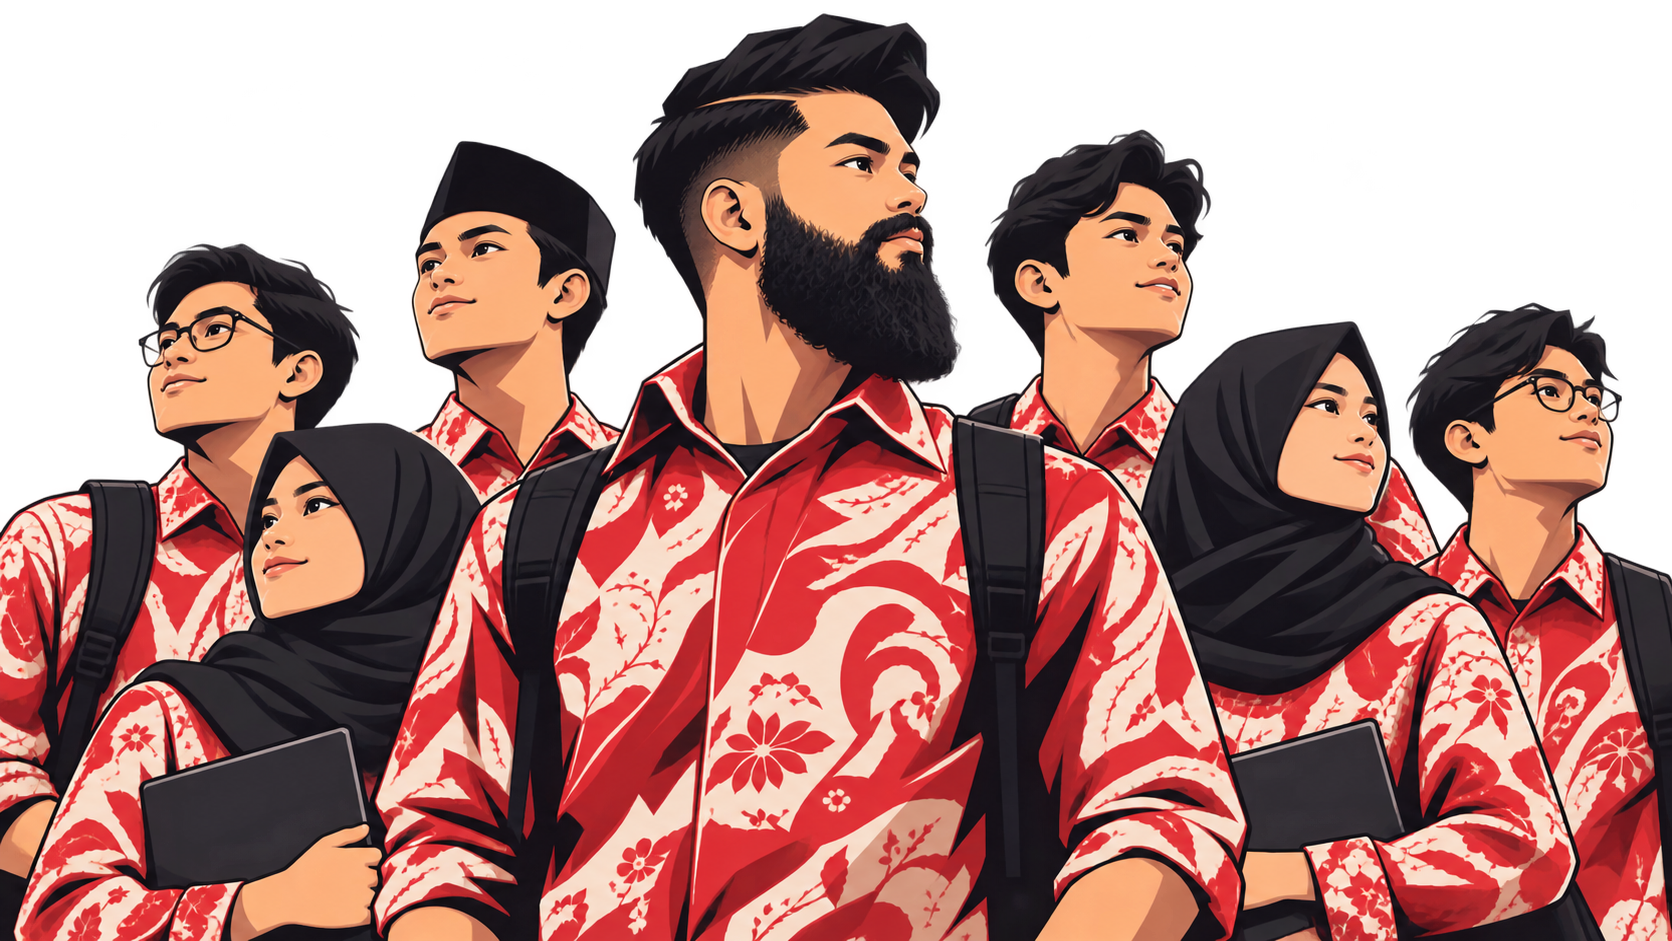
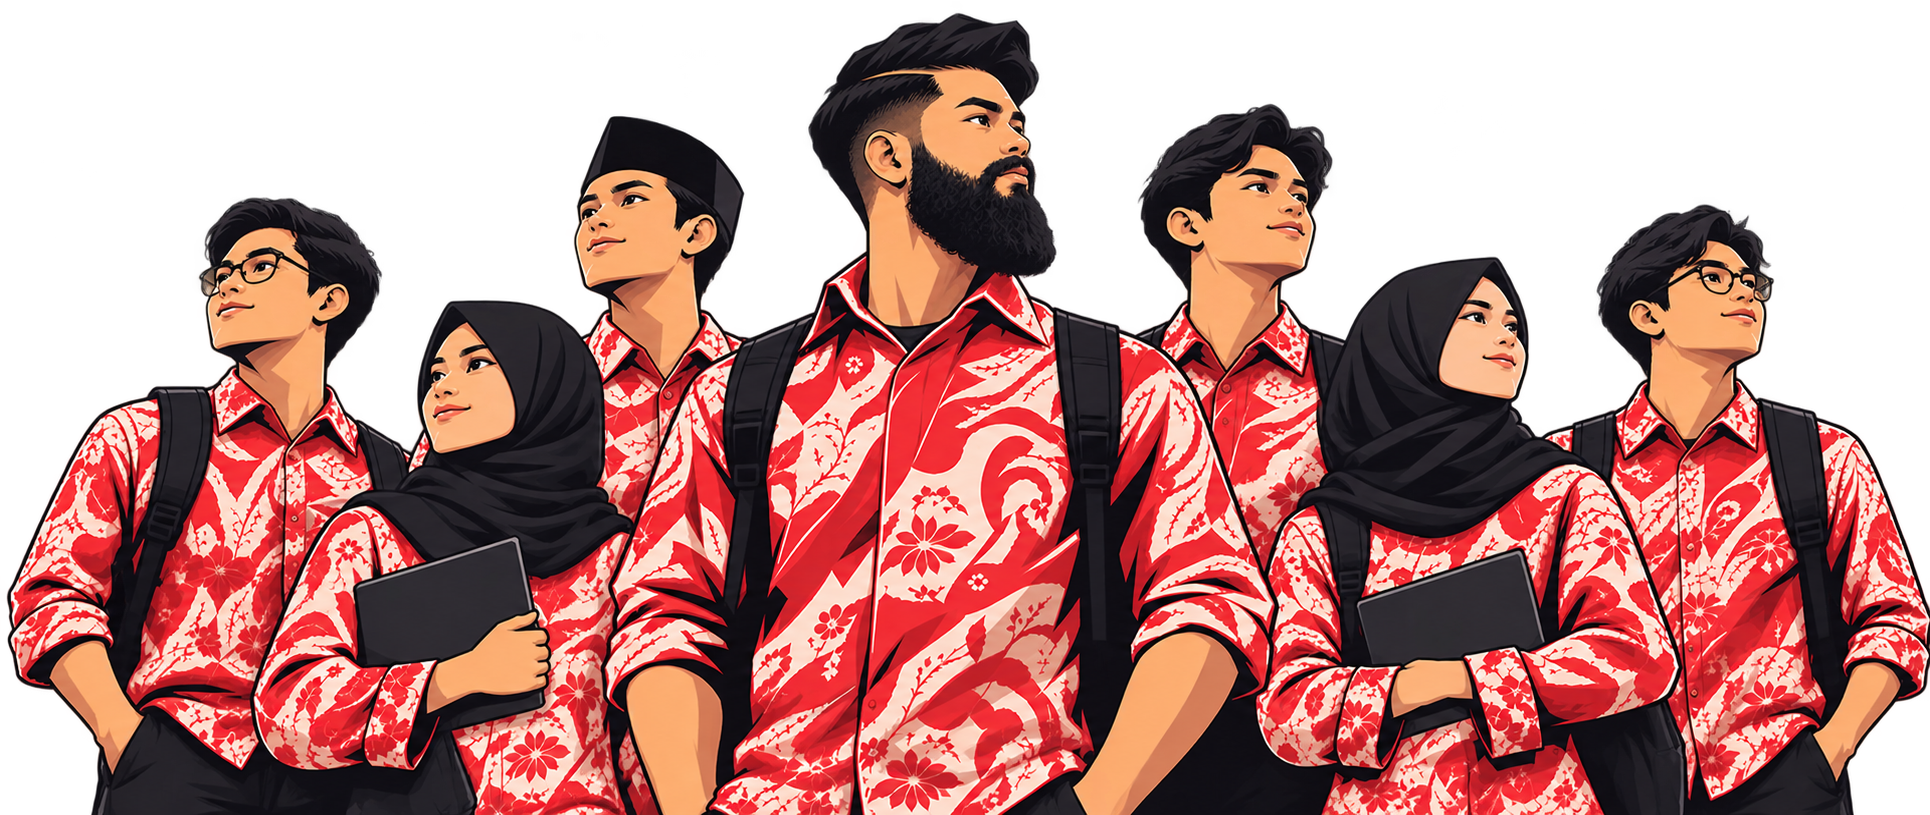
Fix hero composition: overlap-safe grid layout, new illustration
Switch back to a CSS Grid layout for the hero (text/image columns
can never overlap regardless of viewport width) after absolute
positioning caused the headline to collide with the illustration
and decorative elements to clip near the navbar at in-between
widths. Also:
- Swap in the wider transparent hero illustration the user supplied
- Fix the mustard accent square, which was sitting exactly on the
  image's own corner and rendering fully hidden behind it
- Verified overlap-free via DOM measurements at the 1024-1440px
  range in addition to visual checks (this pane's screenshot tool
  is unreliable above ~1050px width, so rect math was used to
  confirm no collisions at wider breakpoints)

diff --git a/src/components/home/hero.tsx b/src/components/home/hero.tsx
@@ -11,13 +11,13 @@ import { DotGrid, BurstLines, MonasSkyline } from "@/components/home/hero-decor"
 export function Hero() {
   return (
     <section className="relative overflow-hidden border-b-[2.5px] border-gk-black bg-gk-bg">
-      <div className="pointer-events-none absolute bottom-0 left-0 z-0 hidden h-10 w-[180px] opacity-75 sm:block lg:h-12 lg:w-[220px]">
+      <div className="pointer-events-none absolute bottom-0 left-0 z-0 hidden h-12 w-[220px] opacity-80 md:block lg:h-16 lg:w-[300px]">
         <MonasSkyline className="h-full w-full" />
       </div>
 
       <Container className="relative z-10">
-        <div className="grid grid-cols-1 gap-10 py-14 sm:py-16 lg:grid-cols-12 lg:items-center lg:gap-6 lg:py-20">
-          <div className="lg:col-span-5">
+        <div className="grid grid-cols-1 gap-10 py-14 sm:py-16 lg:grid-cols-12 lg:gap-4 lg:py-24">
+          <div className="lg:col-span-5 lg:pt-2">
             <Reveal>
               <span className="mb-2 inline-flex items-center gap-2 font-display text-xs font-bold uppercase tracking-[0.25em] text-gk-red">
                 <span className="h-2 w-2 bg-gk-red" />
@@ -28,7 +28,7 @@ export function Hero() {
               </p>
             </Reveal>
             <Reveal delay={0.08}>
-              <h1 className="font-display text-[clamp(2.75rem,6.5vw,5.5rem)] font-bold uppercase leading-[0.9] tracking-tight text-gk-black">
+              <h1 className="font-display text-[clamp(2.75rem,5.6vw,4.75rem)] font-bold uppercase leading-[0.9] tracking-tight text-gk-black">
                 Gerak
                 <br />
                 Bareng.{" "}
@@ -40,7 +40,7 @@ export function Hero() {
               </h1>
             </Reveal>
             <Reveal delay={0.16}>
-              <p className="mt-8 max-w-md text-base text-gk-black/70 sm:text-lg">
+              <p className="mt-8 max-w-xs text-base text-gk-black/70 sm:text-lg">
                 Ruang bertumbuh, bergerak, dan berkontribusi untuk anak muda
                 di Kabupaten Bekasi.
               </p>
@@ -60,57 +60,68 @@ export function Hero() {
             </Reveal>
           </div>
 
-          <div className="lg:col-span-7">
+          <div className="relative lg:col-span-7">
             <Reveal delay={0.3} y={40}>
-              <div className="relative mx-auto aspect-[4/3] w-full max-w-2xl sm:aspect-[16/10] lg:aspect-auto lg:h-[540px] lg:max-w-none">
+              <div className="relative mx-auto mt-8 w-full max-w-2xl lg:mx-0 lg:mt-0 lg:max-w-none lg:overflow-visible">
+                {/* yellow glow behind head */}
                 <div
                   aria-hidden
-                  className="absolute -top-2 left-[28%] hidden h-36 w-36 rounded-full bg-gk-mustard/85 blur-[1px] sm:block sm:h-48 sm:w-48"
+                  className="absolute left-[30%] top-[2%] hidden h-32 w-32 rounded-full bg-gk-mustard/85 blur-[1px] sm:block sm:h-40 sm:w-40 lg:h-48 lg:w-48"
                 />
+                {/* burst lines left of the glow */}
                 <BurstLines
                   aria-hidden
-                  className="absolute left-[18%] top-2 hidden h-14 w-16 sm:block lg:h-16 lg:w-20"
+                  className="absolute left-[19%] top-[6%] hidden h-12 w-14 sm:block lg:h-14 lg:w-16"
                 />
+                {/* dotted grid, left of the group */}
+                <DotGrid
+                  aria-hidden
+                  className="absolute left-0 top-[30%] hidden h-14 w-14 text-gk-black/25 sm:block"
+                />
+                {/* rotated red flag panel behind the group, right-of-center */}
                 <div
                   aria-hidden
-                  className="absolute right-[4%] top-[6%] hidden h-[72%] w-[52%] -rotate-6 bg-gk-red/90 lg:block"
+                  className="absolute right-[16%] top-[4%] hidden h-[62%] w-[34%] -rotate-6 bg-gk-red/90 lg:block"
                 />
+                {/* large Garuda mark to the right of the group */}
                 <Image
                   src="/logo-icon.jpg"
                   alt=""
                   width={900}
                   height={900}
-                  className="absolute right-0 top-[4%] hidden h-[52%] w-[42%] object-contain opacity-95 mix-blend-multiply lg:block"
+                  className="absolute right-[2%] top-[8%] hidden h-[34%] w-[22%] object-contain opacity-95 mix-blend-multiply lg:block"
                 />
-                <DotGrid
-                  aria-hidden
-                  className="absolute left-0 top-[36%] hidden h-16 w-16 text-gk-black/25 sm:block"
-                />
-                <DotGrid
-                  aria-hidden
-                  className="absolute bottom-[8%] right-[1%] hidden h-14 w-14 text-gk-black/20 lg:block"
-                />
-                <div
-                  aria-hidden
-                  className="absolute bottom-0 right-0 hidden h-14 w-14 bg-gk-mustard sm:block sm:h-16 sm:w-16"
-                />
+                {/* handwritten tag, top-right corner */}
                 <p
                   aria-hidden
-                  className="absolute right-[2%] top-0 hidden max-w-[10rem] -rotate-3 text-right text-xl leading-tight text-gk-red lg:block lg:text-2xl"
-                  style={{ fontFamily: "var(--font-marker)" }}
+                  className="absolute right-0 top-[-2%] hidden max-w-[9rem] -rotate-3 text-right text-lg leading-tight text-gk-black lg:block lg:text-xl"
+                  style={{
+                    fontFamily: "var(--font-marker)",
+                    textShadow:
+                      "0 2px 0 var(--gk-bg), 2px 0 0 var(--gk-bg), -2px 0 0 var(--gk-bg), 0 -2px 0 var(--gk-bg)",
+                  }}
                 >
                   Anak Muda
                   <br />
                   Bekasi Bisa!
                 </p>
+                {/* dotted grid + mustard square, bottom-right */}
+                <DotGrid
+                  aria-hidden
+                  className="absolute bottom-[4%] right-[3%] hidden h-12 w-12 text-gk-black/20 lg:block"
+                />
+                <div
+                  aria-hidden
+                  className="absolute -bottom-3 -right-3 z-20 hidden h-14 w-14 bg-gk-mustard sm:block sm:h-16 sm:w-16"
+                />
 
                 <Image
                   src="/hero-illustration.png"
                   alt="Anak muda Garuda Keadilan Kabupaten Bekasi, kompak pakai batik merah, siap gerak bareng"
-                  width={1672}
-                  height={941}
+                  width={1930}
+                  height={815}
                   priority
-                  className="absolute inset-x-0 bottom-0 z-10 h-auto w-full"
+                  className="relative z-10 h-auto w-full"
                 />
               </div>
             </Reveal>
